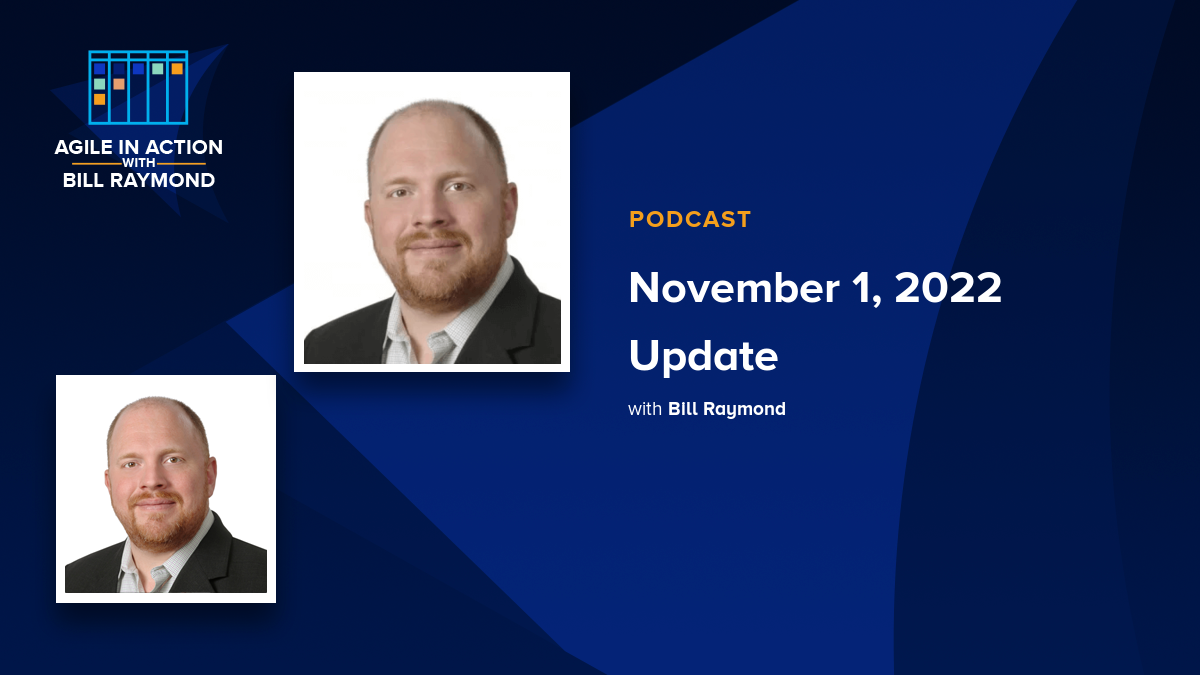
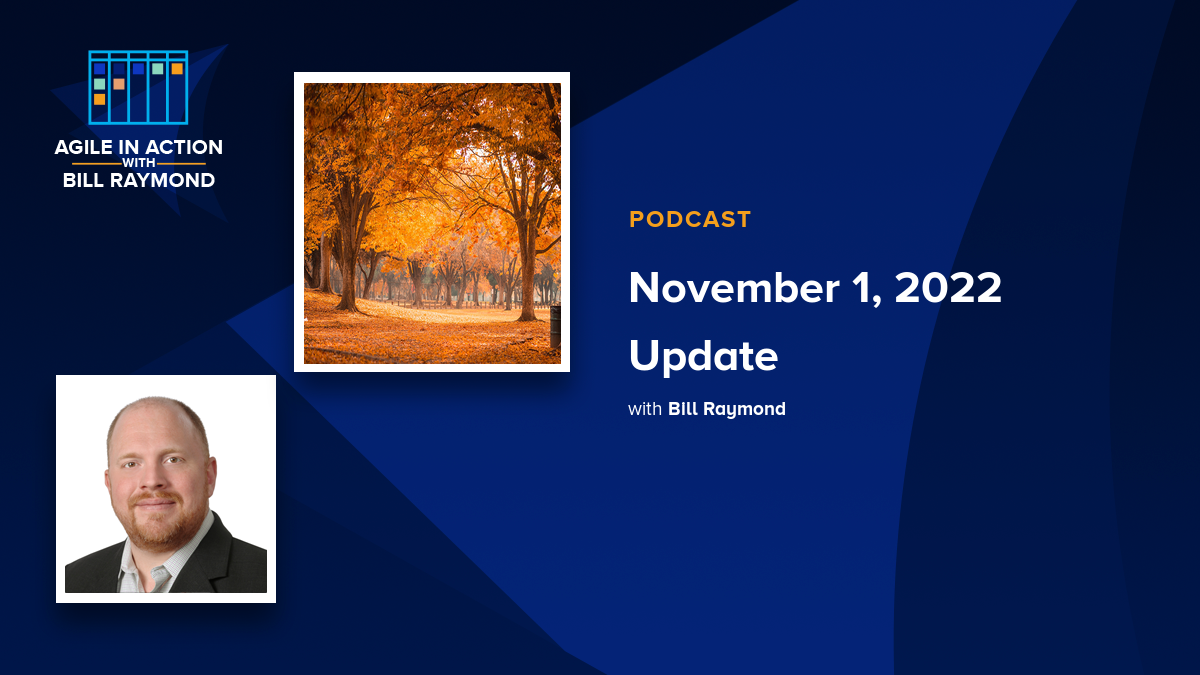
Jekyll build from Action

Changed region(s): [[0.2467, 0.1244, 0.4933, 0.56]]

diff --git a/agile-in-action-podcast/2022/11/01/november-1-2022-update.html b/agile-in-action-podcast/2022/11/01/november-1-2022-update.html
@@ -39,7 +39,19 @@
   </section>
 <section class="podcast-post-section">
     <div class="markdown-section">
-        <h2>Listen now</h2>
+        <h2>Listen now</h2><iframe class="podcast-player"
+                style="border: none" 
+                src="//html5-player.libsyn.com/embed/episode/id/24862260/height/90/theme/custom/thumbnail/yes/direction/backward/render-playlist/no/custom-color/f49f1c/"
+                height="90" 
+                width="100%" 
+                scrolling="no"  
+                allowfullscreen 
+                webkitallowfullscreen 
+                mozallowfullscreen 
+                oallowfullscreen 
+                msallowfullscreen>
+            </iframe>
+            <p></p>
         <div class="podcast-badges"><a href="https://podcasts.apple.com/us/podcast/agile-in-action-with-bill-raymond/id1516008955" class="podcast-badge-link" target="_blank">
                 <img class="podcast-badge" src="/assets/logos/badge-apple-podcasts.png" alt="alt">
             </a><a href="https://open.spotify.com/show/6ntGFKgVK1vurtfFBCCwLq?si=raBf7B-ESSuD2jqhdRs9FA" class="podcast-badge-link" target="_blank">
@@ -56,15 +68,23 @@
                     <a href="https://www.linkedin.com/company/agile-in-action-with-bill-raymond-podcast" target="blank">Agile in Action podcast link</a>
                 </li></ul><h2 id="transcript">Transcript</h2>
 
-<p>(transcripts are auto-generated, so please excuse the brevity)</p>
-
-<p><strong>Bill Raymond:</strong> Hi, this is Bill Raymond host of the Agile in Action podcast. Today is Tuesday, November 1st, 2022. Now we have a lot of content to share with you over the coming weeks and months. And that means we need to prepare So this week, we’re taking a little break and we’ll be back on Tuesday, November 8, with a brand new podcast.</p>
+<p>(transcripts are auto-generated, so please excuse the brevity)
+<strong>Bill Raymond:</strong> Hi, this is bill Raymond host of the agile and action podcast. Today is Tuesday, November 1st, 2022. Now we have a lot of content to share with you over the coming weeks and months. And that means we need to prepare So this week, we’re taking a little break and we’ll be back on Tuesday, November 8, with a brand new podcast.</p>
 
 <p><strong>Bill Raymond:</strong> Until then I have a favor to ask of you.</p>
 
 <p><strong>Bill Raymond:</strong> If you have a LinkedIn account, could you go to the Agile in Action with Bill Raymond Page and subscribe? There you will get the latest information and all of our podcasts, including agile news. If you are listening to this podcast right now, just scroll down to the show notes or the description, and you’ll find a link there, or you can get that on the https://agileinaction.com website.</p>
 
 <p><strong>Bill Raymond:</strong> Thank you and see you next week!</p>
+
+<p><strong>Sponsor:</strong> The future of work is, shall we say, stormy, and it looks like things are not changing anytime soon. So how do you weather these storms and stay competitive while continuing to innovate? Recent studies have shown that when you put psychological safety first, people will work at their highest IQ and be capable of analytical thinking and collaborative problem solving. Do you want to see these improvements in your organization? If so, I want to introduce you to Alla Weinberg, founder of Spoke and Wheel.</p>
+
+<p>Alla and her talented team will perform a 90-day psychological safety sprint that will assess your culture against three critical areas.</p>
+
+<p><strong>Sponsor:</strong> I suggest you set up a free 20-minute call with Alla and the Spoke and Wheel team.</p>
+
+<p><strong>Sponsor:</strong> You can access this free call by visiting www.spokeandwheel.co/assess. That’s like the spokes on a bicycle wheel, www.spokeandwheel.co/assess. When you sign up for the free call, mention the Agile In Action Podcast to receive a 10% discount on your psychological safety assessment.</p>
+
 <h2 id="about-the-agile-in-action-with-bill-raymond-podcast">About the Agile in Action with Bill Raymond podcast</h2>
 
 <p>This business-focused podcast focuses on an audience that is passionate about making positive change in their organizations. The podcast presents interviews with leaders and practitioners who work tirelessly to modernize how teams work.</p>

diff --git a/admin.html b/admin.html
@@ -52,7 +52,7 @@
         
         <div class="gcp-cards-1">
             
-            <img src="/uploads/bill-raymond.png" alt="" class="gcp-card"></div>
+            <img src="/uploads/fall-scenery.png" alt="" class="gcp-card"></div>
         <div class="gcp-play"><img src="/assets/guests-card/play-circle.png" alt="" class="gcp-play-image">
         </div>
     </div><div class="guests-card-title-container"><p class="gct-title"><span><a class="gct-title-href" href="/agile-in-action-podcast/2022/11/01/november-1-2022-update.html">November 1, 2022 Update</a></span></p>

diff --git a/guestphotos.html b/guestphotos.html
@@ -24,7 +24,7 @@
       
       <h2>Title:November 1, 2022 Update</h2># Guests:1<p>Guest:Bill Raymond</p>
         <p>Photo:</p>
-        <p><img src="/uploads/bill-raymond.png" alt=""> </p><h2>Title:What makes SCRUM work when done correctly</h2># Guests:3<p>Guest:Fred Fowler</p>
+        <p><img src="/uploads/fall-scenery.png" alt=""> </p><h2>Title:What makes SCRUM work when done correctly</h2># Guests:3<p>Guest:Fred Fowler</p>
         <p>Photo:</p>
         <p><img src="/uploads/fred-fowler.jpeg" alt=""> </p><p>Guest:Sponsor: Spoke and Wheel</p>
         <p>Photo:</p>
